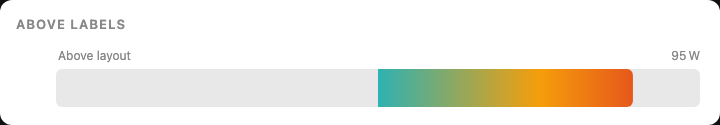
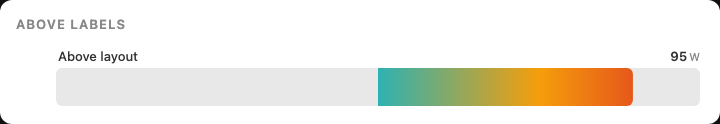
Polish label density and typography

diff --git a/src/sensor-bar-card-plus.js b/src/sensor-bar-card-plus.js
@@ -1772,37 +1772,31 @@ class SensorBarCard extends HTMLElement {
           justify-content: flex-start;
           align-items: center;
           gap: var(--sbcp-main-gap);
-          font-size: 12px;
-          line-height: 1.15;
-          color: var(--secondary-text-color, #888);
-          margin-bottom: 3px;
+          margin-bottom: 2px;
           min-height: 16px;
         }
         .above-bar-label-name {
           flex: 1 1 auto;
           min-width: 0;
-          overflow: hidden;
-          text-overflow: ellipsis;
-          white-space: nowrap;
+          font-size: 13px;
+          font-weight: 500;
+          color: var(--primary-text-color, #333);
+          line-height: 1.15;
         }
         .above-bar-label-value {
           flex: 0 0 auto;
           margin-left: auto;
-          white-space: nowrap;
           display: inline-flex;
           align-items: baseline;
           justify-content: flex-end;
           text-align: right;
-          gap: 0;
-        }
-        .above-bar-label-value.has-unit {
-          gap: 2px;
-        }
-        .above-bar-label-value.tight-unit {
-          gap: 0;
-        }
-        .above-bar-label-unit {
-          color: var(--secondary-text-color, #888);
+          min-width: 0;
+          max-width: 100%;
+          overflow: hidden;
+          font-size: 13px;
+          font-weight: 600;
+          color: var(--primary-text-color, #333);
+          font-variant-numeric: tabular-nums;
         }
         /* ── Shared marker base ── */
         .peak-marker, .target-marker {
@@ -1948,7 +1942,8 @@ class SensorBarCard extends HTMLElement {
           line-height: 1.1;
         }
         .value-right .unit-group,
-        .top-right-value .unit-group {
+        .top-right-value .unit-group,
+        .above-bar-label-value .unit-group {
           flex: 0 1 auto;
           display: inline-flex;
           align-items: baseline;
@@ -1958,7 +1953,8 @@ class SensorBarCard extends HTMLElement {
           line-height: 1.1;
         }
         .value-right .unit,
-        .top-right-value .unit {
+        .top-right-value .unit,
+        .above-bar-label-value .unit {
           flex: 0 1 auto;
           min-width: 0;
           display: inline-block;
@@ -2136,20 +2132,31 @@ class SensorBarCard extends HTMLElement {
 
       const trackWidth = track.getBoundingClientRect().width;
       const valueWidth = valueEl.scrollWidth;
-      let density = 'normal';
+      let density = this._classifyInsideDensity(trackWidth, valueWidth);
+      const rowDensity = mainLine?.dataset?.rowDensity || 'normal';
+      const iconWrap = mainLine?.querySelector?.('.icon-wrap') ?? null;
+      let hideIcon = rowDensity === 'dense' || rowDensity === 'compressed';
 
-      if (trackWidth < Math.max(72, valueWidth + 12)) density = 'compressed';
-      else if (trackWidth < valueWidth + 56) density = 'dense';
-      else if (trackWidth < valueWidth + 92) density = 'tight';
-      else if (trackWidth < valueWidth + 128) density = 'compact';
+      if (iconWrap && (hideIcon || density === 'dense' || density === 'compressed')) {
+        hideIcon = true;
+        const reclaimedWidth = this._getLeftModeIconWidth(iconWrap, mainLine) + this._getLeftModeGap(mainLine);
+        density = this._classifyInsideDensity(trackWidth + reclaimedWidth, valueWidth);
+      }
 
       innerLabel.dataset.insideDensity = density;
-      innerLabel.dataset.hideName = density === 'dense' || density === 'compressed' ? 'true' : 'false';
+      innerLabel.dataset.hideName = density === 'compressed' ? 'true' : 'false';
       if (mainLine) {
-        const rowDensity = mainLine.dataset.rowDensity || 'normal';
-        mainLine.dataset.hideInsideIcon = rowDensity === 'dense' || rowDensity === 'compressed' ? 'true' : 'false';
+        mainLine.dataset.hideInsideIcon = hideIcon ? 'true' : 'false';
       }
     });
+  }
+
+  _classifyInsideDensity(trackWidth, valueWidth) {
+    if (trackWidth < Math.max(72, valueWidth + 12)) return 'compressed';
+    if (trackWidth < valueWidth + 56) return 'dense';
+    if (trackWidth < valueWidth + 92) return 'tight';
+    if (trackWidth < valueWidth + 128) return 'compact';
+    return 'normal';
   }
 
   _applyRowDensity() {
@@ -2888,10 +2895,7 @@ class SensorBarCard extends HTMLElement {
   }
 
   _formatAboveValueMarkup(display, unit) {
-    if (!unit) return `<span class="above-bar-label-value">${display}</span>`;
-    const cleanUnit = String(unit);
-    const unitModeClass = this._isTightUnit(cleanUnit) ? 'tight-unit' : 'has-unit';
-    return `<span class="above-bar-label-value ${unitModeClass}"><span class="above-bar-label-number">${display}</span><span class="above-bar-label-unit">${cleanUnit}</span></span>`;
+    return `<span class="above-bar-label-value">${this._formatRightValueMarkup(display, unit, false)}</span>`;
   }
 
   _formatInsideValueMarkup(display, unit) {
@@ -2948,7 +2952,7 @@ class SensorBarCard extends HTMLElement {
       <div class="above-line">
         ${ecfg.icon && ecfg.icon !== false ? `<div class="above-icon-spacer"></div>` : ''}
         <div class="above-bar-label">
-          <span class="above-bar-label-name">${name}</span>
+          <span class="above-bar-label-name label-left-text">${name}</span>
           ${this._formatAboveValueMarkup(stateDisplay, unit)}
         </div>
       </div>` : '';
@@ -3058,7 +3062,7 @@ class SensorBarCard extends HTMLElement {
     }
     const aboveLabel = row.querySelector('.above-bar-label');
     if (aboveLabel) {
-      aboveLabel.innerHTML = `<span class="above-bar-label-name">${ecfg.name || stateObj.attributes?.friendly_name || entityCfg.entity}</span>${this._formatAboveValueMarkup(display, displayUnit)}`;
+      aboveLabel.innerHTML = `<span class="above-bar-label-name label-left-text">${ecfg.name || stateObj.attributes?.friendly_name || entityCfg.entity}</span>${this._formatAboveValueMarkup(display, displayUnit)}`;
     }
 
     if (ecfg.peak_marker.show && !isNaN(rawVal)) {